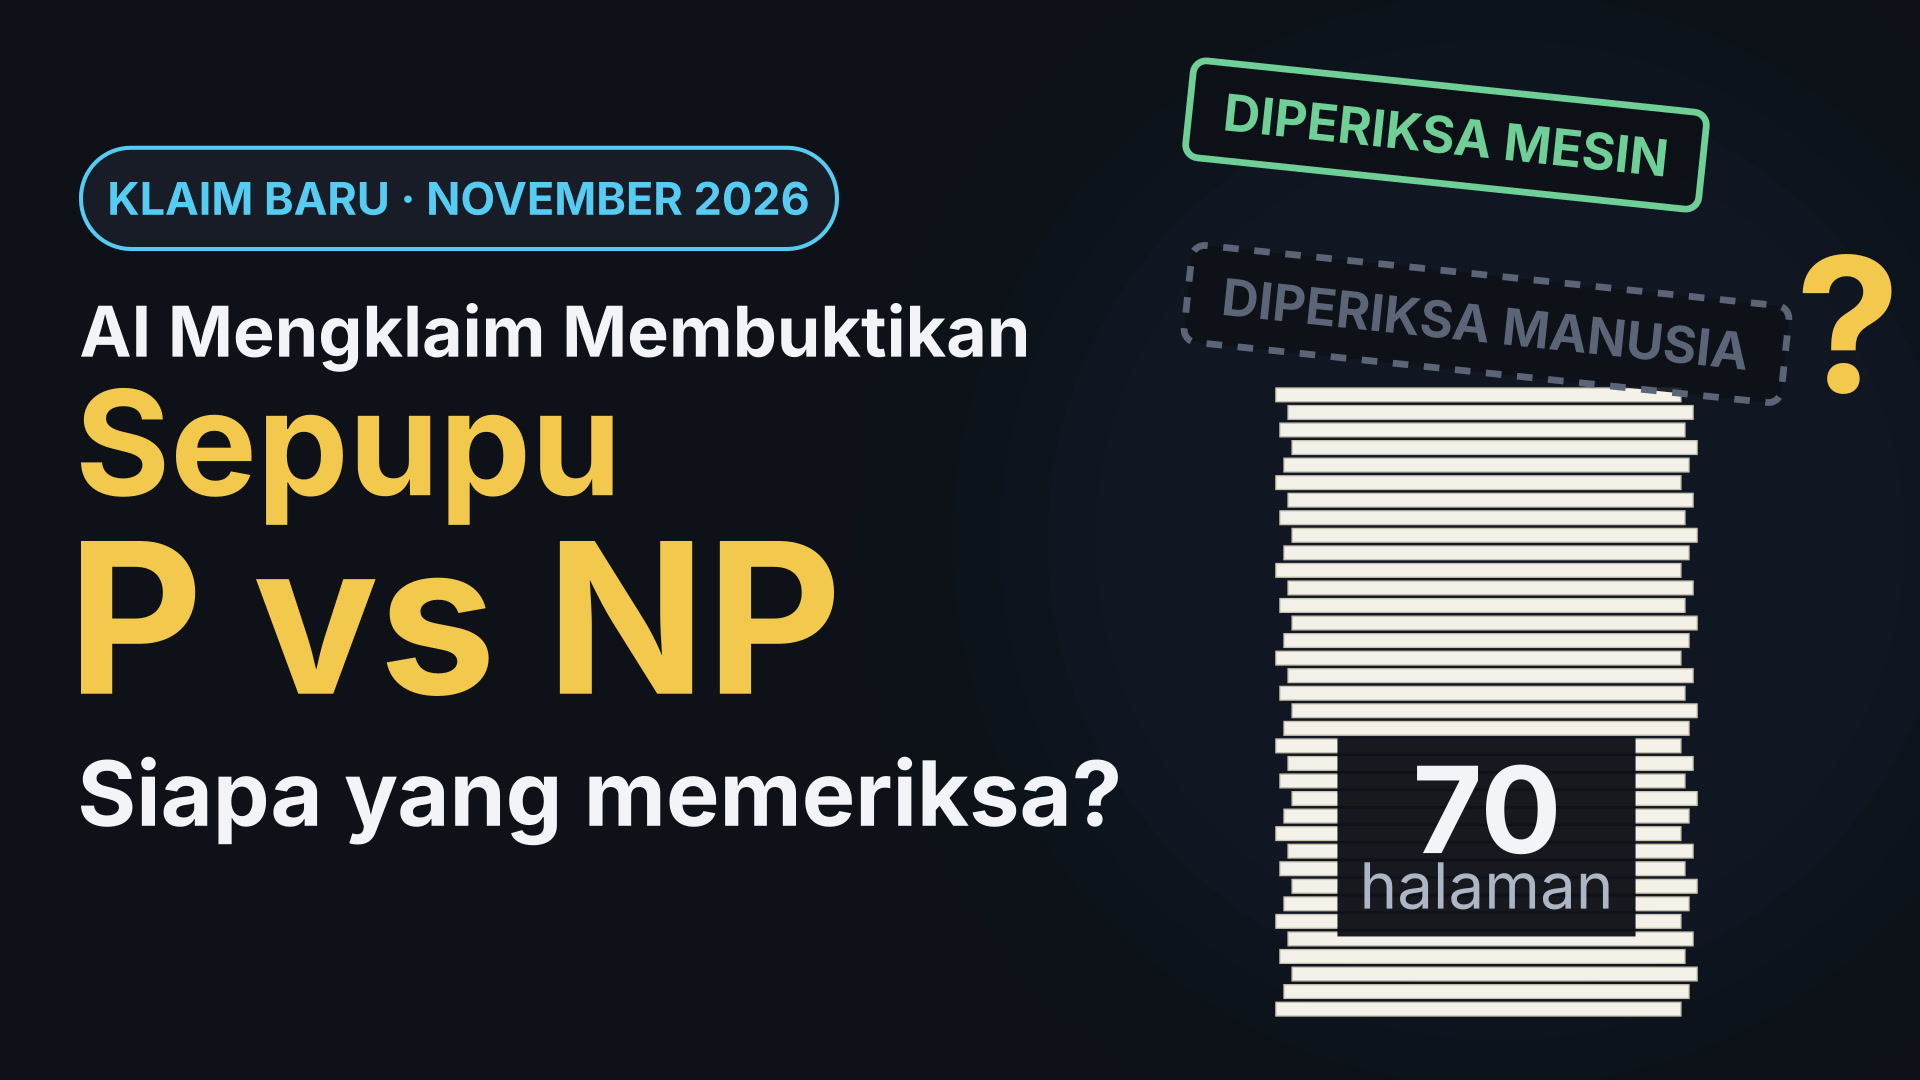
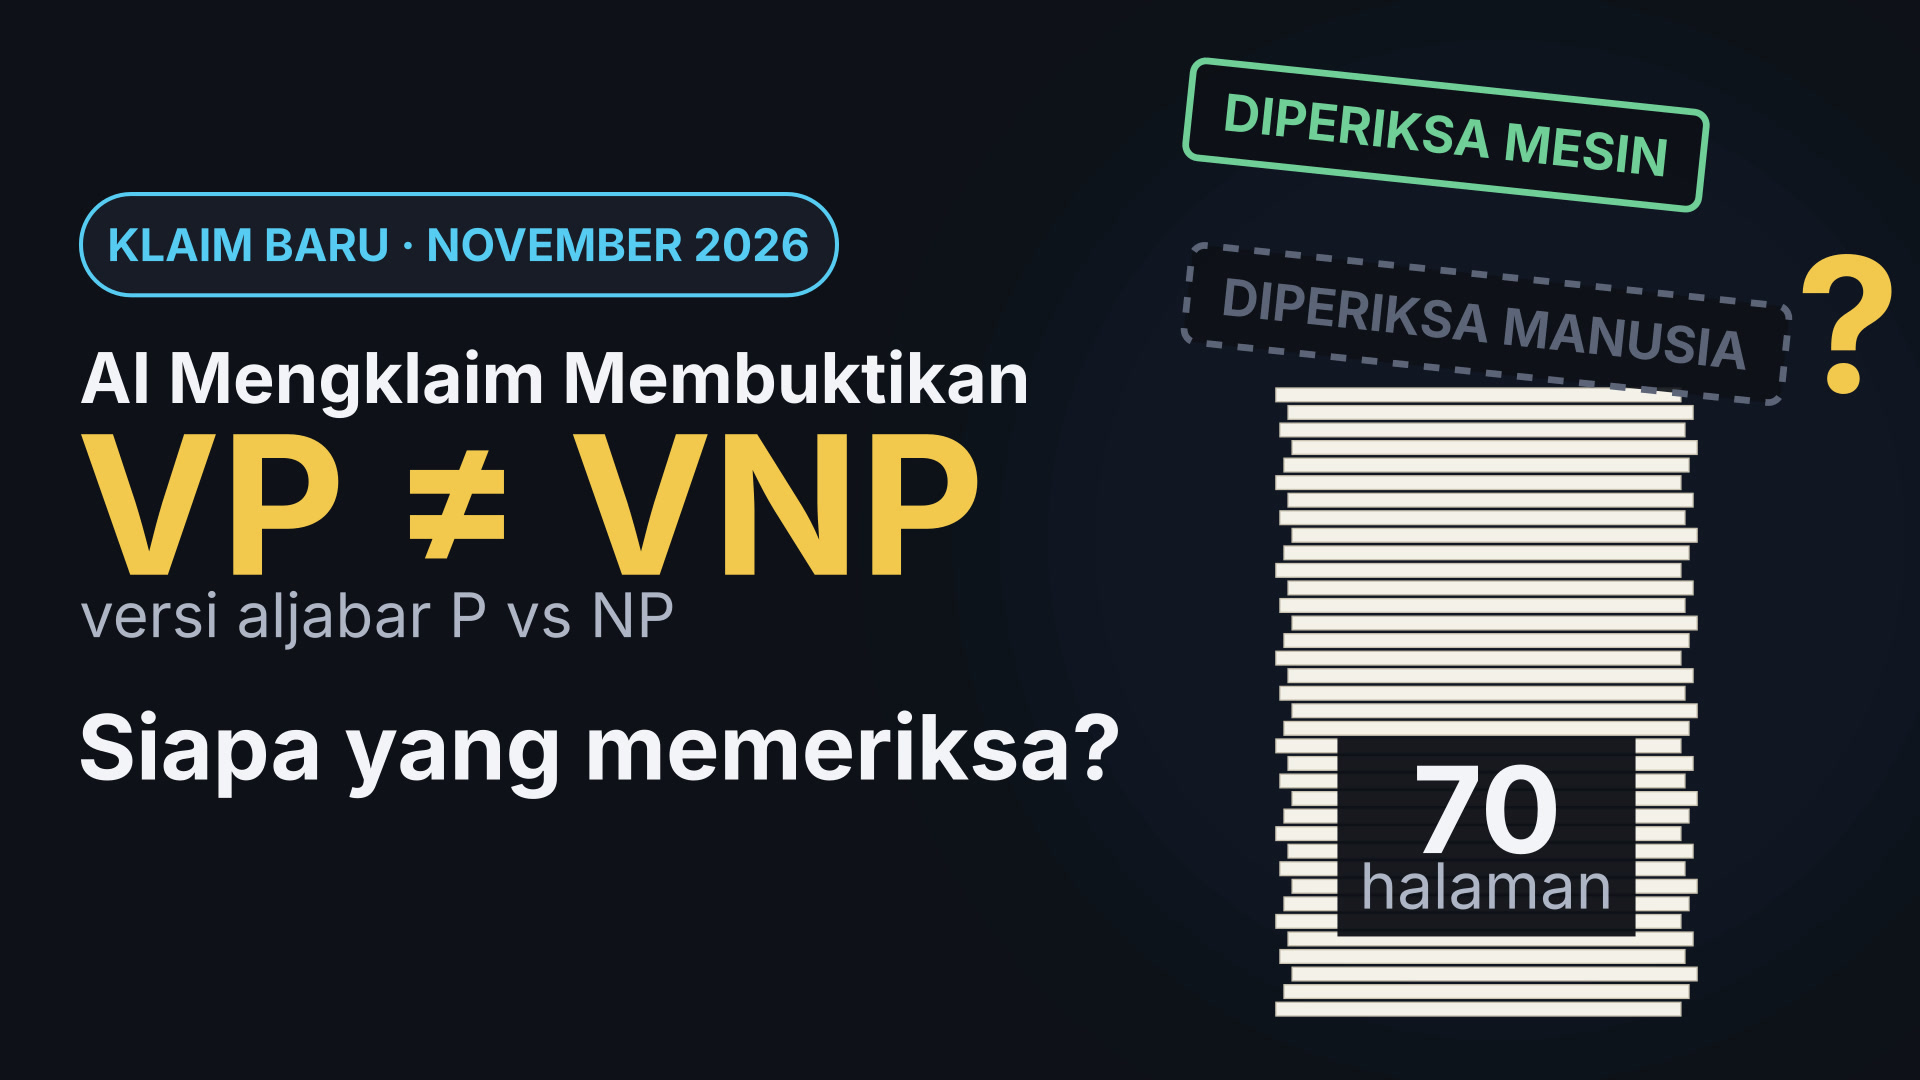
D11: ganti kata sepupu dengan VP ≠ VNP, versi aljabar P vs NP (judul, kartu pembuka, thumbnail, bahan unggah)
Claude-Session: https://claude.ai/code/session_012oyg5Hmi95ZrGxbVdhEkyK

Changed region(s): [[0.0312, 0.1222, 0.5938, 0.7944]]

diff --git a/episodes/dok/D11/manim/subtitle.py b/episodes/dok/D11/manim/subtitle.py
@@ -1,6 +1,6 @@
 """Subtitle .srt D11 dari timeline.json (waktu per kata hasil penyelarasan ElevenLabs).
 Angka yang dieja untuk TTS ditulis kembali sebagai angka supaya mudah dibaca.
-  python3 manim/subtitle.py   ->  video/D11_AI_dan_Sepupu_P_vs_NP.srt (dan salinan .id.srt)"""
+  python3 manim/subtitle.py   ->  video/D11_AI_Mengklaim_VP_vs_VNP.srt (dan salinan .id.srt)"""
 import json, os, re
 D = os.path.dirname(os.path.abspath(__file__)); R = os.path.dirname(D)
 
@@ -50,7 +50,7 @@ def dua_baris(s):
     return " ".join(w[:best]) + "\n" + " ".join(w[best:])
 
 
-def main(tl_path=os.path.join(R, "timeline.json"), out_path=os.path.join(R, "video", "D11_AI_dan_Sepupu_P_vs_NP.srt")):
+def main(tl_path=os.path.join(R, "timeline.json"), out_path=os.path.join(R, "video", "D11_AI_Mengklaim_VP_vs_VNP.srt")):
     TL = json.load(open(tl_path))
     cues = []
     for b in TL["beats"]:

diff --git a/episodes/dok/D11/manim/thumbnail.py b/episodes/dok/D11/manim/thumbnail.py
@@ -13,8 +13,8 @@ class Thumb(Scene):
         q = TB("?", 100, PRIMA).next_to(s2, RIGHT, buff=0.15)
         if q.get_right()[0] > 6.9: q.shift(LEFT * (q.get_right()[0] - 6.9))
         j1 = TB("AI Mengklaim Membuktikan", 50, INK)
-        j2 = TB("Sepupu", 104, PRIMA)
-        j3 = TB("P vs NP", 150, PRIMA)
+        j2 = TB("VP ≠ VNP", 138, PRIMA)
+        j3 = T("versi aljabar P vs NP", 44, INK2)
         judul = VGroup(j1, j2, j3).arrange(DOWN, aligned_edge=LEFT, buff=0.16).to_edge(LEFT, buff=0.6).shift(UP * 0.3)
         if judul.width > 7.0: judul.scale_to_fit_width(7.0).to_edge(LEFT, buff=0.6)
         badge = VGroup(RoundedRectangle(width=5.6, height=0.75, corner_radius=0.37, fill_color=PANEL, fill_opacity=1, stroke_color=AI, stroke_width=3), T("KLAIM BARU · NOVEMBER 2026", 24, AI, weight=BOLD))

diff --git a/episodes/dok/D11/manim/render_manim.py b/episodes/dok/D11/manim/render_manim.py
@@ -43,7 +43,7 @@ if "--gabung" in sys.argv:
     vid = os.path.join(hd, "gabung_video.mp4")
     subprocess.run(["ffmpeg", "-v", "error", "-y", "-f", "concat", "-safe", "0", "-i", lst, "-c", "copy", vid], check=True)
     aud = os.path.join(R, "audio", "narration.wav")
-    out = os.path.join(R, "video", "D11_AI_dan_Sepupu_P_vs_NP.mp4")
+    out = os.path.join(R, "video", "D11_AI_Mengklaim_VP_vs_VNP.mp4")
     if os.path.exists(aud):
         subprocess.run(["ffmpeg", "-v", "error", "-y", "-i", vid, "-i", aud, "-map", "0:v", "-map", "1:a", "-c:v", "copy", "-c:a", "aac", "-b:a", "192k", "-shortest", "-movflags", "+faststart", out], check=True)
     else:

diff --git a/episodes/dok/D11/manim/bab0.py b/episodes/dok/D11/manim/bab0.py
@@ -64,7 +64,7 @@ class Bab0(BabScene):
         self.play_at(b.at("serius"), FadeIn(s1, scale=1.3), FadeIn(q, scale=0.6), dur=0.6)
         j0 = T("soal paling terkenal di ilmu komputer", 34, INK2)
         j1 = TB("P vs NP", 170, INK)
-        j2 = TB("dan sepupunya yang baru saja diklaim terbukti", 40, PRIMA)
+        j2 = TB("dan versi aljabarnya yang baru saja diklaim terbukti", 40, PRIMA)
         judul = VGroup(j0, j1, j2).arrange(DOWN, buff=0.4).move_to(UP * 0.3)
         st = status_chip().next_to(judul, DOWN, buff=0.6)
         self.play_at(b.at("Untuk menjawabnya"), FadeOut(VGroup(s1, s2, q), scale=0.9), dur=0.5)

diff --git a/README.md b/README.md
@@ -24,7 +24,7 @@ Semua 52 episode sudah final setelah revisi istilah dan tata letak (render ulang
 
 **Video simulasi** (`episodes/sim/`, panduan `episodes/_alat/SIMULASI.md`, daftar `episodes/sim/daftar.json`): 58 dari 58 selesai per 5 Nov 2026, masing-masing hanya versi bersuara, dengan satu Short, halaman pemutar `simulasi-<kode>.html`, dan tombol "Video simulasi" di halaman latihan episode pemakainya. K11 dibuat ulang sebagai versi pertahanan ("Melindungi HP dari Aplikasi Berbahaya", keputusan Bu Dewi 5 Nov 2026).
 
-**Dokumenter** (`episodes/dok/`, untuk penonton umum, gaya dokumenter ilustrasi): D01 "Apakah AI Benar-benar Berpikir?" selesai 7 Nov 2026 (10:36, narator Bian dari ElevenLabs, musik latar dibuat dengan kode oleh `episodes/_alat/musik_dok.py`, mesin kamera dan cahaya di `episodes/dok/D01/sinema.js`). Bahan unggah ada di `episodes/dok/D01/youtube.md` dan `thumbnail.jpg`. Urutan render: `voice.py` → `musik_dok.py` → `render.py --suara`. D02 "Kenapa Harga HP Naik? Karena AI Sedang Memakan RAM Dunia" selesai 8 Nov 2026 (10:07, adegan 3D three.js di `episodes/dok/D02/g3d.js` + 2D di `scenes.js`, efek suara dari `Kiko.sfx` lewat `sfx_dok.py`). Urutan D02: `voice.py` → `sfx_dok.py` → `musik_dok.py` → `render.py --suara --seg=…` (paralel) → `render.py --suara --lanjut`. D03 "Suara Ibumu Bisa Dipalsukan dalam 3 Detik" selesai 9 Nov 2026 (9:17) dengan pipeline dokumenter v2 dari audit D02 (`episodes/dok/audit_D02.md`): mesin `episodes/_alat/sinema_dok.js`, perangkat gambar `episodes/_alat/dokkit/` (tokoh, latar, peta, layar HP, Bip; API di `dokkit/API.md`), waktu kata `align_dok.py`, suara tokoh per beat (`peran` di tts-kit), pemeriksa `cek_dok.py`, master −14 LUFS. Urutan D03: `suara_elevenlabs.py` → `align_dok.py` → `voice.py` → (adegan bab<n>.js + `preview.py`/`cek_dok.py`) → `sfx_dok.py` → `musik_dok.py` → `render.py --suara --seg=…` → `render.py --suara --lanjut`. D04 "Buku yang Ditulis Selama 64 Tahun dan Belum Selesai" (The Art of Computer Programming, Donald Knuth, dan teka-teki kubus "Claude's Cycles") dirender 9 Nov 2026 (10:04) dengan pipeline yang sama; jeda tambahan setelah visualisasi matematika (`hold` per beat) dan dekomposisi kubus yang sudah diverifikasi di `episodes/dok/D04/kubus.json`. D05 "Kenapa Aplikasi Favoritmu Makin Menyebalkan?" (enshittification/pembusukan platform, metafora Pasar Juragan) dirender 15 Nov 2026 (14:43; jeda antarbab diperlebar lewat kunci beat `cardDelay`/`cardFade`/`cardOut` dan `lead`) dengan pipeline yang sama; naskah disunting Bu Dewi di Claude Doc lalu disalin ke `episodes/dok/D05/naskah.md`, kit gambar bersama di `episodes/dok/D05/umum.js`, Short di `episodes/dok/D05/short/`, thumbnail dari `thumbnail.js`. D06 "Apa yang Akan Terjadi pada Software Engineer di Masa Depan?" selesai 20 Nov 2026 (12:40, 8 bab, narator Pratama dari ElevenLabs dengan model Eleven v4 Turbo, data dari WEF, ILO, Stanford, METR, dan Stack Overflow; Short "Pakai AI, ngoding jadi lebih cepat?" 73 detik). D07 "Hipotesis Riemann Dipecahkan oleh AI? Begini Cara Claude dan Lean Membuktikan Soal Berusia 167 Tahun" selesai 21 Nov 2026 (10:21, 8 bab, Pratama v4 Turbo, visual Manim Community 0.22 di `episodes/dok/D07/manim/`: `render_manim.py` untuk pratinjau, `--hd`, `--gabung`; `subtitle.py` untuk .srt; Short vertikal 65 detik dari `short.py`; thumbnail dari `thumbnail.py`). Isinya klaim per 21 November 2026, jadi cek ulang statusnya sebelum unggah. D08 "GTA 6 Dibocorkan oleh Cyberleek Lewat Torrent?" dirender 21 Nov 2026 (12:56, 8 bab bernuansa game: kartu LEVEL/BOSS/POWER-UP/CONTINUE? di `episodes/dok/D08/kartu.js`, latar kota neon three.js di `kota3d.js`, narator Pratama Eleven v4 Turbo); Short A "Ada yang Membagikan GTA 6 Versi PC di Grupmu?" di `D08/short/` Short B "Benarkah Biaya Membuat GTA 6 Lebih Mahal dari Burj Khalifa?" dengan adegan baru (`D08/shortb.js`) lewat induk-semu `episodes/dok/D08B/` (memakai mesin D08, timeline dan narasi berupa symlink ke D08), serta Short C "Cyberleek Membocorkan GTA 6 Lewat Torrent, tetapi Berkas Terpentingnya Justru Ditahan" lewat induk-semu `D08C`. D11 "Setelah Hipotesis Riemann, AI Mengklaim Membuktikan Sepupu P vs NP. Siapa yang Memeriksanya?" (klaim VP ≠ VNP dari repositori `anthropics/formal-math`, status per 25 November 2026) selesai 25 Nov 2026 (11:00, 8 bab, Pratama v4 Turbo, Manim di `episodes/dok/D11/manim/` dengan alur yang sama seperti D07; `Statement.lean` asli berlisensi Apache 2.0 ditampilkan di bab 5; `qa_kosong.py` mencari layar kosong; Short vertikal 57 detik dari `short.py`). Cek ulang status klaim sebelum unggah.
+**Dokumenter** (`episodes/dok/`, untuk penonton umum, gaya dokumenter ilustrasi): D01 "Apakah AI Benar-benar Berpikir?" selesai 7 Nov 2026 (10:36, narator Bian dari ElevenLabs, musik latar dibuat dengan kode oleh `episodes/_alat/musik_dok.py`, mesin kamera dan cahaya di `episodes/dok/D01/sinema.js`). Bahan unggah ada di `episodes/dok/D01/youtube.md` dan `thumbnail.jpg`. Urutan render: `voice.py` → `musik_dok.py` → `render.py --suara`. D02 "Kenapa Harga HP Naik? Karena AI Sedang Memakan RAM Dunia" selesai 8 Nov 2026 (10:07, adegan 3D three.js di `episodes/dok/D02/g3d.js` + 2D di `scenes.js`, efek suara dari `Kiko.sfx` lewat `sfx_dok.py`). Urutan D02: `voice.py` → `sfx_dok.py` → `musik_dok.py` → `render.py --suara --seg=…` (paralel) → `render.py --suara --lanjut`. D03 "Suara Ibumu Bisa Dipalsukan dalam 3 Detik" selesai 9 Nov 2026 (9:17) dengan pipeline dokumenter v2 dari audit D02 (`episodes/dok/audit_D02.md`): mesin `episodes/_alat/sinema_dok.js`, perangkat gambar `episodes/_alat/dokkit/` (tokoh, latar, peta, layar HP, Bip; API di `dokkit/API.md`), waktu kata `align_dok.py`, suara tokoh per beat (`peran` di tts-kit), pemeriksa `cek_dok.py`, master −14 LUFS. Urutan D03: `suara_elevenlabs.py` → `align_dok.py` → `voice.py` → (adegan bab<n>.js + `preview.py`/`cek_dok.py`) → `sfx_dok.py` → `musik_dok.py` → `render.py --suara --seg=…` → `render.py --suara --lanjut`. D04 "Buku yang Ditulis Selama 64 Tahun dan Belum Selesai" (The Art of Computer Programming, Donald Knuth, dan teka-teki kubus "Claude's Cycles") dirender 9 Nov 2026 (10:04) dengan pipeline yang sama; jeda tambahan setelah visualisasi matematika (`hold` per beat) dan dekomposisi kubus yang sudah diverifikasi di `episodes/dok/D04/kubus.json`. D05 "Kenapa Aplikasi Favoritmu Makin Menyebalkan?" (enshittification/pembusukan platform, metafora Pasar Juragan) dirender 15 Nov 2026 (14:43; jeda antarbab diperlebar lewat kunci beat `cardDelay`/`cardFade`/`cardOut` dan `lead`) dengan pipeline yang sama; naskah disunting Bu Dewi di Claude Doc lalu disalin ke `episodes/dok/D05/naskah.md`, kit gambar bersama di `episodes/dok/D05/umum.js`, Short di `episodes/dok/D05/short/`, thumbnail dari `thumbnail.js`. D06 "Apa yang Akan Terjadi pada Software Engineer di Masa Depan?" selesai 20 Nov 2026 (12:40, 8 bab, narator Pratama dari ElevenLabs dengan model Eleven v4 Turbo, data dari WEF, ILO, Stanford, METR, dan Stack Overflow; Short "Pakai AI, ngoding jadi lebih cepat?" 73 detik). D07 "Hipotesis Riemann Dipecahkan oleh AI? Begini Cara Claude dan Lean Membuktikan Soal Berusia 167 Tahun" selesai 21 Nov 2026 (10:21, 8 bab, Pratama v4 Turbo, visual Manim Community 0.22 di `episodes/dok/D07/manim/`: `render_manim.py` untuk pratinjau, `--hd`, `--gabung`; `subtitle.py` untuk .srt; Short vertikal 65 detik dari `short.py`; thumbnail dari `thumbnail.py`). Isinya klaim per 21 November 2026, jadi cek ulang statusnya sebelum unggah. D08 "GTA 6 Dibocorkan oleh Cyberleek Lewat Torrent?" dirender 21 Nov 2026 (12:56, 8 bab bernuansa game: kartu LEVEL/BOSS/POWER-UP/CONTINUE? di `episodes/dok/D08/kartu.js`, latar kota neon three.js di `kota3d.js`, narator Pratama Eleven v4 Turbo); Short A "Ada yang Membagikan GTA 6 Versi PC di Grupmu?" di `D08/short/` Short B "Benarkah Biaya Membuat GTA 6 Lebih Mahal dari Burj Khalifa?" dengan adegan baru (`D08/shortb.js`) lewat induk-semu `episodes/dok/D08B/` (memakai mesin D08, timeline dan narasi berupa symlink ke D08), serta Short C "Cyberleek Membocorkan GTA 6 Lewat Torrent, tetapi Berkas Terpentingnya Justru Ditahan" lewat induk-semu `D08C`. D11 "AI Mengklaim Membuktikan VP ≠ VNP, Versi Aljabar dari P vs NP. Siapa yang Memeriksanya?" (klaim VP ≠ VNP dari repositori `anthropics/formal-math`, status per 25 November 2026) selesai 25 Nov 2026 (11:00, 8 bab, Pratama v4 Turbo, Manim di `episodes/dok/D11/manim/` dengan alur yang sama seperti D07; `Statement.lean` asli berlisensi Apache 2.0 ditampilkan di bab 5; `qa_kosong.py` mencari layar kosong; Short vertikal 57 detik dari `short.py`). Cek ulang status klaim sebelum unggah.
 
 **Seri TikTok** (`episodes/tiktok/`, panduan `episodes/tiktok/PANDUAN.md`): 45 video T01–T45 (vertikal, ±45 detik, maskot Bip, ajakan subscribe ke youtube.com/@iteachswe), terlepas dari kurikulum; dirender `episodes/_alat/render_tiktok.py`.
 

diff --git a/episodes/dok/D11/youtube.md b/episodes/dok/D11/youtube.md
@@ -1,15 +1,15 @@
-# YouTube: D11 Setelah Hipotesis Riemann, AI Mengklaim Membuktikan Sepupu P vs NP
+# YouTube: D11 AI Mengklaim Membuktikan VP ≠ VNP, Versi Aljabar dari P vs NP
 
 ## Pengaturan unggah (wajib)
 - Penonton: **Tidak, video ini tidak dibuat untuk anak-anak**.
 - Konten diubah atau sintetis: **Ya** (narasi dibuat dengan AI).
 - Sebelum unggah: cek ulang status klaim (apakah sudah ada matematikawan yang mengumumkan hasil pemeriksaan). Kalau ada perubahan besar, tulis di komentar tersemat dan di baris pertama deskripsi.
 - Layar akhir: 20 detik terakhir (mulai sekitar 10:39), tombol subscribe + video D07 (Hipotesis Riemann) di kotak kiri.
-- Subtitle: unggah `D11_AI_dan_Sepupu_P_vs_NP.srt` sebagai Bahasa Indonesia.
+- Subtitle: unggah `D11_AI_Mengklaim_VP_vs_VNP.srt` sebagai Bahasa Indonesia.
 - Thumbnail: `thumbnail.jpg`.
 
-## Judul (92 karakter)
-Setelah Hipotesis Riemann, AI Mengklaim Membuktikan Sepupu P vs NP. Siapa yang Memeriksanya?
+## Judul (87 karakter)
+AI Mengklaim Membuktikan VP ≠ VNP, Versi Aljabar dari P vs NP. Siapa yang Memeriksanya?
 
 Cadangan: Bukti 70 Halaman Ini Ditulis oleh AI dan Belum Dibaca Satu Pun Matematikawan. Mengapa Tetap Serius?
 
@@ -46,7 +46,7 @@ Sumber:
 #PvsNP #AI #Lean #Matematika #IlmuKomputer
 
 ## Tag
-p vs np, vp vs vnp, vp vnp claude, ai membuktikan p vs np, sepupu p vs np, permanen dan determinan, sirkuit aritmetika, leslie valiant, lean theorem prover, bukti matematika ai, claude anthropic matematika, millennium prize, kompleksitas komputasi, hipotesis riemann ai, dokumenter animasi indonesia
+p vs np, vp vs vnp, vp vnp claude, ai membuktikan p vs np, versi aljabar p vs np, permanen dan determinan, sirkuit aritmetika, leslie valiant, lean theorem prover, bukti matematika ai, claude anthropic matematika, millennium prize, kompleksitas komputasi, hipotesis riemann ai, dokumenter animasi indonesia
 
 ## Frasa pencarian
 - apa itu p vs np

diff --git a/episodes/dok/D11/short/youtube.md b/episodes/dok/D11/short/youtube.md
@@ -11,12 +11,12 @@ Determinan dan permanen hanya berbeda pada tanda tambah dan tanda kurang. Untuk 
 
 Naskah disusun dengan bantuan AI (termasuk Claude buatan Anthropic, pihak yang mengajukan klaim ini), lalu diperiksa faktanya dan disunting oleh manusia. Narasi: suara sintetis ElevenLabs. Sumber: https://github.com/anthropics/formal-math/tree/main/vp-vnp
 
-Dokumenter lengkap: Setelah Hipotesis Riemann, AI Mengklaim Membuktikan Sepupu P vs NP. Siapa yang Memeriksanya? (lihat video terkait di atas judul).
+Dokumenter lengkap: AI Mengklaim Membuktikan VP ≠ VNP, Versi Aljabar dari P vs NP. Siapa yang Memeriksanya? (lihat video terkait di atas judul).
 Subscribe: https://www.youtube.com/@iTeachSWE
 
 #shorts #PvsNP #AI #Matematika #IlmuKomputer
 ```
 
-**Video terkait** (fitur "Related video" di YouTube Studio): Setelah Hipotesis Riemann, AI Mengklaim Membuktikan Sepupu P vs NP. Siapa yang Memeriksanya?
+**Video terkait** (fitur "Related video" di YouTube Studio): AI Mengklaim Membuktikan VP ≠ VNP, Versi Aljabar dari P vs NP. Siapa yang Memeriksanya?
 
 **Berkas:** `video/D11_Short.mp4` (hanya versi bersuara) dan `video/D11_Short.srt`.
